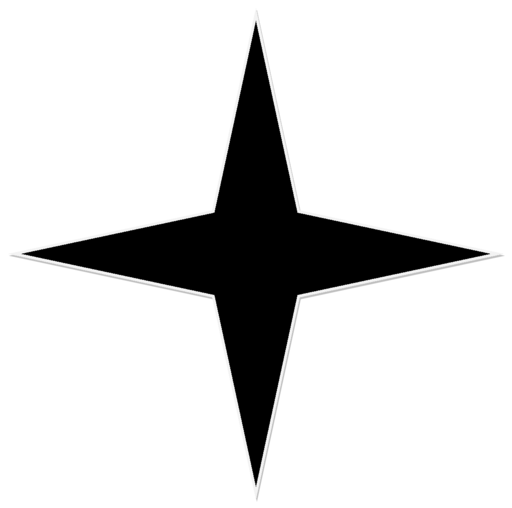
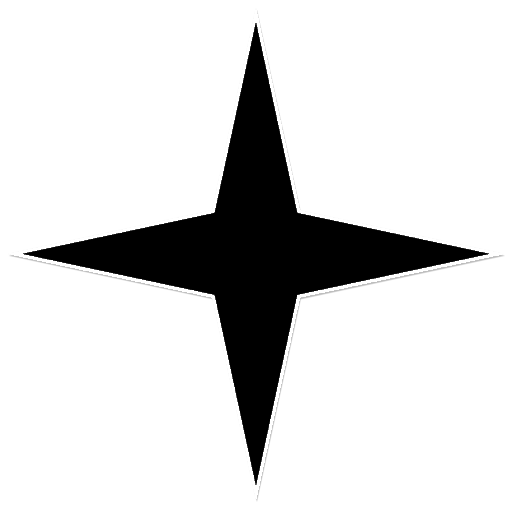
Added white borders to difficulty shapes

diff --git a/app/Components/Home/DifficultyPanel.tsx b/app/Components/Home/DifficultyPanel.tsx
@@ -36,8 +36,12 @@ https://commons.wikimedia.org/wiki/File:A_Black_Star.png
 https://commons.wikimedia.org/wiki/File:Ninestar.svg
 https://commons.wikimedia.org/wiki/File:24-pointed_star.svg
 Used 512px when available, otherwise full resolution
+Used following ImageMagick commands:
 Turned surrounding white pixels into transparent pixels when needed with commands like this:
 convert 3points.png -fuzz 50% -transparent white 3points.png
+Above command also used to remove existing borders when needed.
+Added final white border to non transparent pixels (shapes) like this:
+convert 3points.png \( +clone -alpha extract -morphology dilate diamond:10 -background white -alpha shape \) -compose DstOver -composite 3points.png
 */
 
 const DifficultyPanel = (props: any) => {
